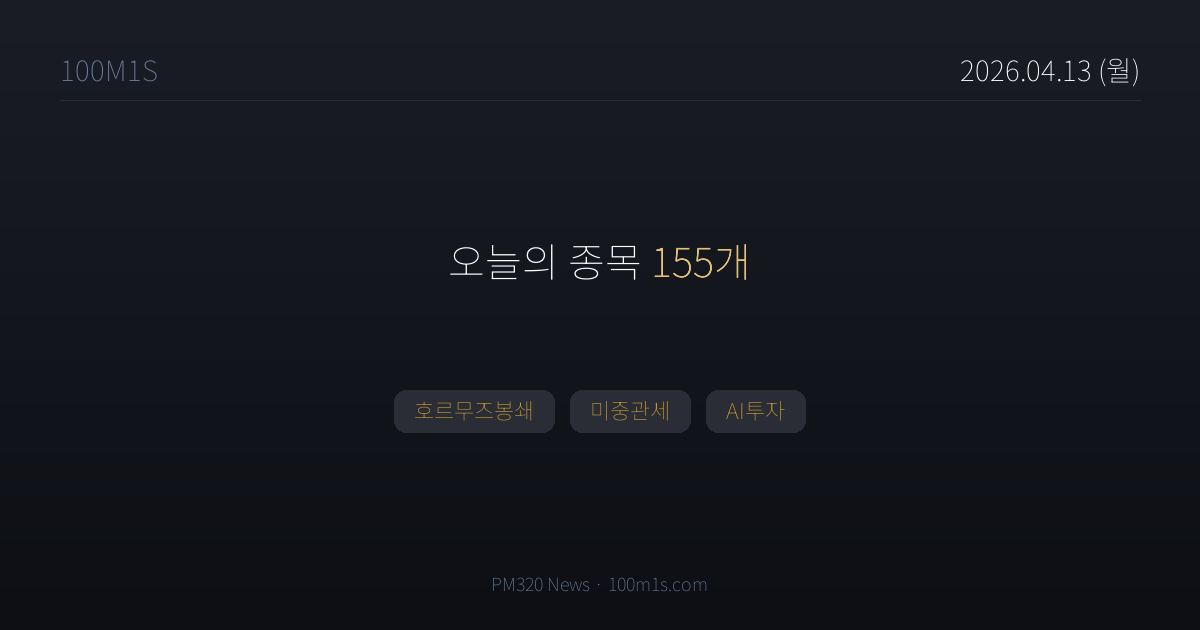
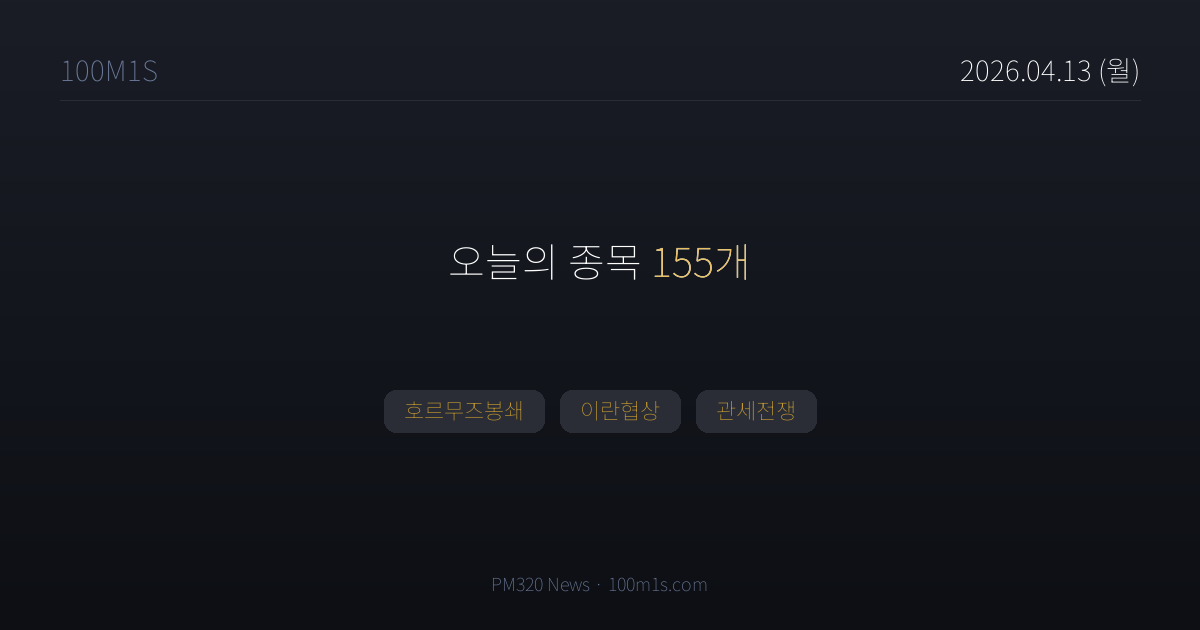
chore(news): 2026-04-13T19:49 pipeline

Changed region(s): [[0.3083, 0.6032, 0.6783, 0.6937]]

diff --git a/news/2026-04-13.html b/news/2026-04-13.html
@@ -4,7 +4,7 @@
 <meta charset="UTF-8">
 <title>4월 13일 (월) 뉴스 — 100M1S</title>
 <meta property="og:title" content="4월 13일 (월) · 종목 155개">
-<meta property="og:description" content="호르무즈봉쇄, 미중관세, AI투자">
+<meta property="og:description" content="호르무즈봉쇄, 이란협상, 관세전쟁">
 <meta property="og:image" content="https://100m1s.com/og/2026-04-13.png">
 <meta property="og:image:width" content="1200">
 <meta property="og:image:height" content="630">
